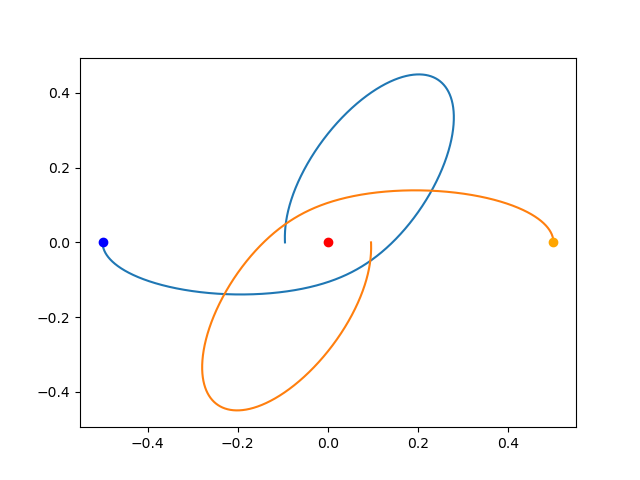
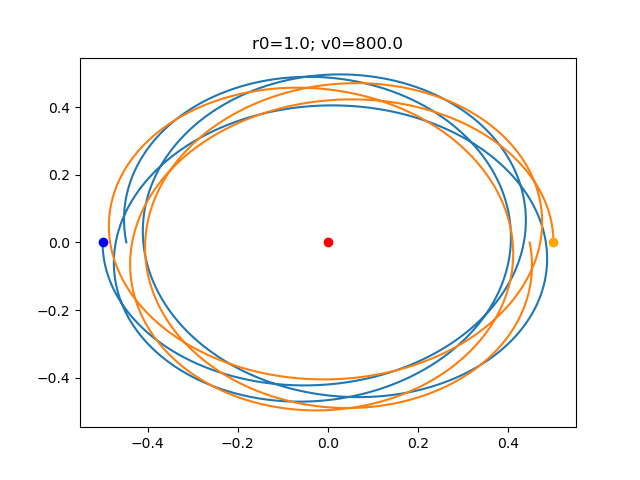
testing_log_orbits

diff --git a/main_2BLog.py b/main_2BLog.py
@@ -15,14 +15,14 @@ with open(planets_file) as file:
 
 Tierra = body_decoder(cuerpos['planetas']['Tierra'])
 Tierra1 = body_decoder(cuerpos['planetas']['Tierra'])
-Tierra1.set_velocity(Tierra.vel*0.001)
-Tierra1.set_position(2*Tierra.pos)
-Tierra1.set_velocity([0, 0.5, 0])
+Tierra1.set_velocity(30*Tierra.vel)
+Tierra1.set_position(Tierra.pos/10000000)
+Tierra1.set_velocity([0, 800, 0])
 Tierra1.set_position([1, 0, 0])
-Tierra1.mass = Tierra.mass/4
-Tierra1.mass = 1
+Tierra1.mass = Tierra.mass
+#Tierra1.mass = 1
 Tierra2 = body_decoder(cuerpos['planetas']['Tierra'])
-Tierra2.mass = 1
+#Tierra2.mass = 1
 Tierra2.set_position([0, 0, 0])
 Tierra2.set_velocity([0, 0, 0])
 Jupiter = body_decoder(cuerpos['planetas']['Jupiter'])
@@ -33,8 +33,8 @@ G = constants["G"]["value"]
 
 # Jupiter Earth system
 theta0 = 0
-thetafin = 4*np.pi
-twoBodySystem = TwoBodySystem(G=1, body1=Tierra1, body2=Tierra2, potential='Log')
+thetafin = 6*np.pi
+twoBodySystem = TwoBodySystem(G=G, body1=Tierra1, body2=Tierra2, potential='Log')
 r0 = twoBodySystem.r_distance
 vr_0 = twoBodySystem.vr_module
 h0 = twoBodySystem.spec_angular_momemtum_module
@@ -61,15 +61,18 @@ theta = orbit[1]
 
 # pintar resultados
 # theta = np.linspace(theta0, thetafin, np.size(r))
-plt.plot(r)
-plt.show()
+#plt.plot(r)
+#plt.show()
 [rx, ry, rz] = polar2cartesian(r, theta, 0)
-title = "r0="+str(r0)+"; v0="+str(h0/r0)
-plot(rx, ry, rz, title=title, excen=excen, h=h0, mu=mu, theta_fin=thetafin)
+#plot(rx, ry, rz, title=title, excen=excen, h=h0, mu=mu, theta_fin=thetafin, show=False)
 fig2D = plt.figure(1)
+title = "r0="+str(r0)+"; v0="+str(h0/r0)
+plt.title(title)
+twoBodySystem.update_orbit(theta0, thetafin)
 plt.plot(twoBodySystem.orbit_1[0], twoBodySystem.orbit_1[1])
 plt.plot(twoBodySystem.orbit_1[0][0], twoBodySystem.orbit_1[1][0], 'bo')
 plt.plot(twoBodySystem.orbit_2[0], twoBodySystem.orbit_2[1])
 plt.plot(twoBodySystem.orbit_2[0][0], twoBodySystem.orbit_2[1][0], 'o', color='orange')
 plt.plot(0, 0, 'ro')
+plt.show()
 fig2D.savefig("2BLog")

diff --git a/Classes.py b/Classes.py
@@ -155,6 +155,16 @@ class TwoBodySystem(BodySystem):
         sol_theta = sol.t
         return sol_r, sol_theta
 
+    def update_orbit(self, theta0, thetafin):
+        self.rel_polar_orbit_2 = self.calculate_orbit(theta0, thetafin)
+        self.rel_polar_cg = self.cg_percentaje * self.rel_polar_orbit_2[0], self.rel_polar_orbit_2[1]
+
+        self.rel_orbit_2 = pol2car(self.rel_polar_orbit_2[0], self.rel_polar_orbit_2[1])
+        self.rel_cg = pol2car(self.rel_polar_cg[0], self.rel_polar_cg[1])
+
+        # respect to CG (_recalculate_orbit_cg)
+        self.orbit_1, self.orbit_2 = self._recalculate_orbit_cg()
+
     def _calculate_cg(self):
         cg = 0
         total_mass = 0
@@ -186,7 +196,7 @@ class TwoBodySystem(BodySystem):
         if self.potential == 'Newton':
             return 1/2*(h/r_mod)**2 + self.V_Newton(r_mod)
         elif self.potential == 'Log':
-            return 1/2*(h/r_mod)**2 + self.V_log(r_mod)
+            return 1/2*(h/r_mod)**2 + self.V_log(r_mod) # * 1/2*np.linalg.norm(self.v)**2
         else:
             print("Error choosing potential name: Newton or Log")
 
@@ -244,6 +254,6 @@ class TwoBodySystem(BodySystem):
             plt.axis([-100, r_point2[0]/1e5, min(f(r)), E])
         plt.xlabel('r')
         plt.legend()
-        # plt.show()
+        plt.show()
         fig_energy.savefig(f'Energy_Vef_{self.potential}')
 

diff --git a/plotting.py b/plotting.py
@@ -31,8 +31,8 @@ def plot(rx, ry, rz, title="", excen=None, mu=None, h=None, theta_fin=None, show
 
     plt.legend(['Posicion inicial', 'Punto focal', 'Numérica', 'Teórica'])
     plt.title(title)
-
-    plt.show()
+    if show:
+        plt.show()
 
     fig2 = plt.figure(101, figsize=(10, 10))
     error = np.sqrt((rx-rx_theo)**2 + (ry-ry_theo)**2)
